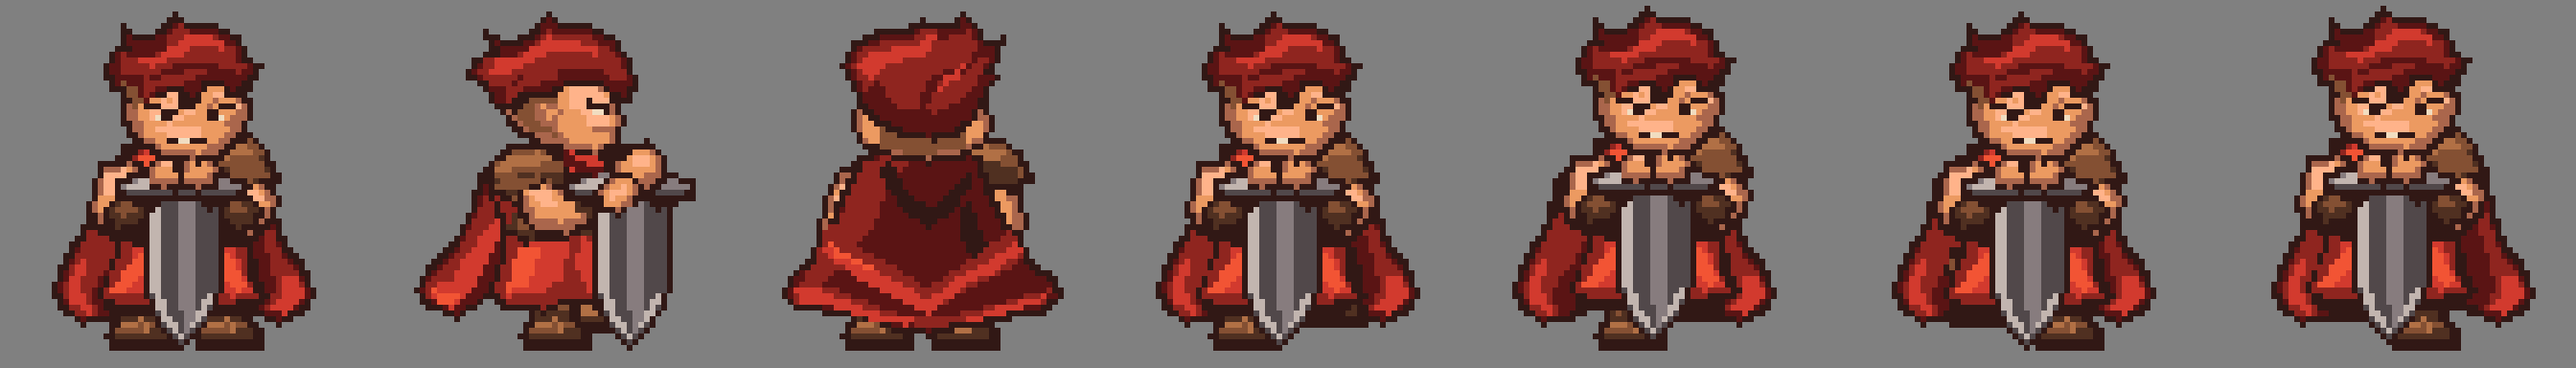
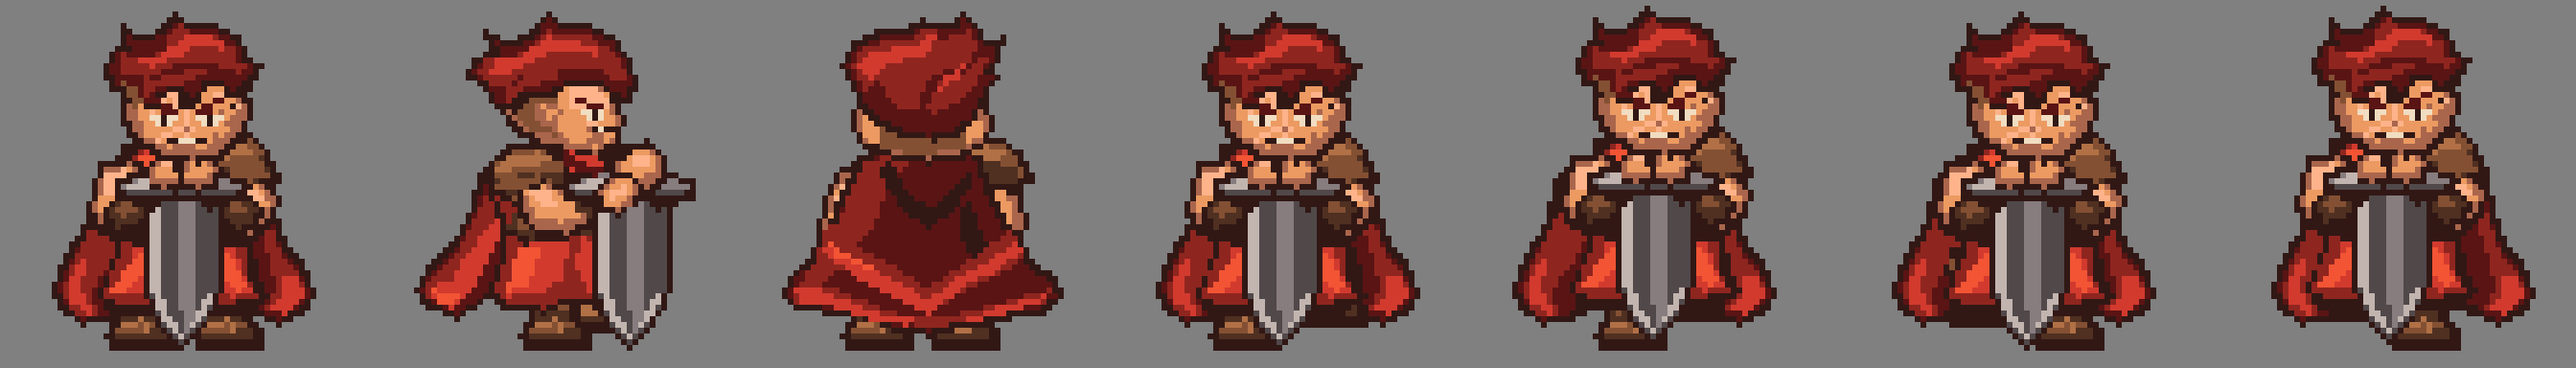
[skip deploy] D01T-4 광전사 얼굴 수정

diff --git a/assets/dot-src/berserker/gpt_dot/note.md b/assets/dot-src/berserker/gpt_dot/note.md
@@ -7,3 +7,7 @@
 - 걷기에서 양발의 높낮이 교차, 지나가는 장면의 몸 1칸 상승, 망토의 2칸 지연 적용.
 D01T-2 수정: 대검 길이·폭, 정면 눈
 D01T-3 수정: 대검 폭 복구·길이 연장, 발 위치 1칸 위
+
+## D01T-4
+- 정면 5장에 좌우 대칭으로 부릅뜬 눈과 짙은 적갈색 V자 눈썹 적용. 옆얼굴의 눈·눈썹도 수정.
+- 이를 악문 입, 정면 왼쪽 뺨의 살구색 흉터, 각진 턱 그림자 적용.
